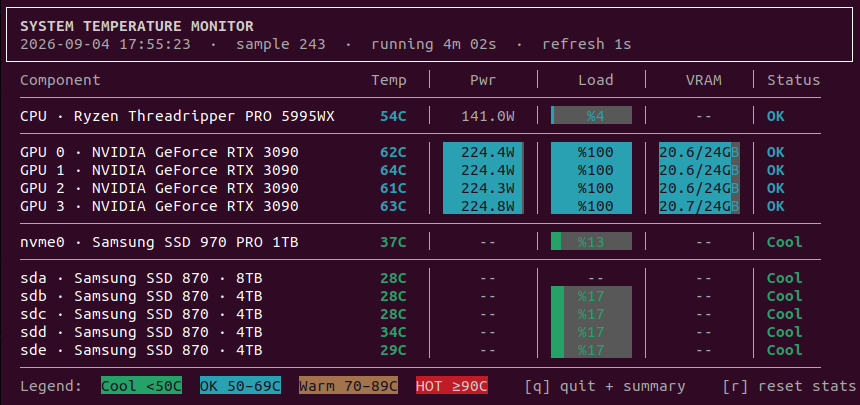
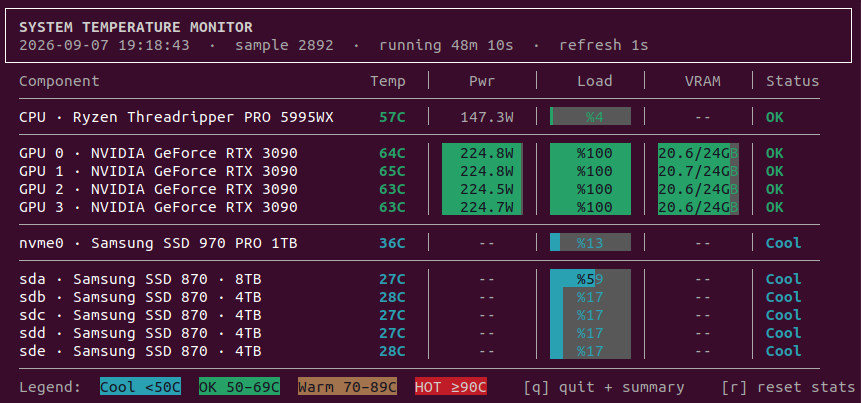
Swap Cool and OK status colors
- Cool renders in ice blue and OK in green, across status text, gauge fills, and the legend

Changed region(s): [[0.0, 0.0, 0.9977, 0.9826], [0.5442, 0.7742, 0.5744, 0.8337], [0.5442, 0.6849, 0.5744, 0.7444]]

diff --git a/temp_monitor.py b/temp_monitor.py
@@ -536,7 +536,7 @@ def status_for(temp):
 
 
 STATUS_KEY = {"Cool": "cool", "OK": "ok", "Warm": "warm", "HOT!": "hot"}
-STATUS_FG = {"cool": curses.COLOR_GREEN, "ok": curses.COLOR_CYAN,
+STATUS_FG = {"cool": curses.COLOR_CYAN, "ok": curses.COLOR_GREEN,
              "warm": curses.COLOR_YELLOW, "hot": curses.COLOR_RED}
 COLORS = {}
 
